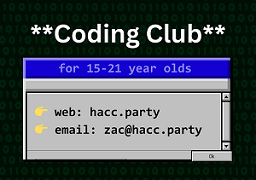
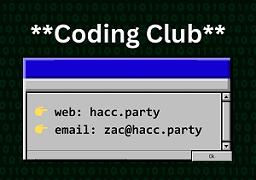
mega style update

Changed region(s): [[0.2188, 0.3333, 0.7812, 0.4167]]

diff --git a/assets/global.css b/assets/global.css
@@ -1,21 +1,57 @@
+:root {
+	color-scheme: dark;
+	--hl: #88f;
+	--fg: #fee;
+	background: #222;
+	color: var(--fg);
+	font-size: 1.1rem;
+
+	display: flex;
+	justify-content: center;
+	min-height: 100vh;
+	font-family: monospace;
+}
 body {
 	max-width: 37rem;
-	font-size: 1rem;
 	margin: auto;
-}
-h1:first-of-type {
-	margin-top: 0;
+	border: 4px solid var(--fg);
 }
 nav {
 	display: flex;
 	gap: 1rem;
-	margin: 0.7rem 0;
-	padding: 0.7rem 0;
-	border: dashed gray;
-	border-width: 1px 0 1px 0;
+	padding: .7rem;
+	border-bottom: 2px solid var(--fg);
+}
+main {
+	padding: 1.2rem;
+}
+main > :first-child {
+	margin-top: 0;
+}
+main > :last-child {
+	margin-bottom: 0;
+}
+footer {
+	padding: .7rem;
+	border-top: 2px solid var(--fg);
+}
+footer * {
+	opacity: .5;
+}
+h1, h2 {
+	border-bottom: 2px solid gray;
+}
+a {
+	color: var(--hl);
+}
+.hl {
+	background: var(--hl);
+	padding: 0.3rem;
+	margin: -0.3rem;
+	color: var(--fg);
 }
 @media (max-width: 38rem) {
 	body {
-		margin: 0 1rem;
+		border: none;
 	}
 }

diff --git a/layouts/_default/baseof.html b/layouts/_default/baseof.html
@@ -15,7 +15,7 @@
 
 	<meta property="og:title" content="{{.Site.Title}}">
 	<meta property="og:description" content="{{.Description}}">
-	<meta property="og:image" content="/banner.png">
+	<meta property="og:image" content="/banner.webp">
 	<meta property="og:type" content="website">
 	<meta property="og:url" content="{{.Permalink}}">
 </head>
@@ -25,8 +25,15 @@
 		<a href="/meets">meets</a>
 		<a href="/hackers">hackers</a>
 		<a href="/merch">merch</a>
-		<a href="https://codeberg.org/hacc">codeberg</a>
+		<a href="https://github.com/haccn">github</a>
 	</nav>
-	{{block "main" .}}{{end}}
+	<main>
+		{{block "main" .}}{{end}}
+	</main>
+	<footer>
+		<span>
+			made with &#129505; by HACCers
+		</span>
+	</footer>
 </body>
 </html>

diff --git a/layouts/shortcodes/meets.html b/layouts/shortcodes/meets.html
@@ -1,7 +1,5 @@
 {{range $i, $e := .Site.Data.meets}}
-<div {{if eq $i 0}}class="next"{{end}}>
-	<h2>{{time.Format "2 Jan 2006" .date}}</h2>
-	<b>Theme:</b> {{markdownify .theme}}<br>
-	{{if .extra}}{{markdownify .extra}}{{end}}
-</div>
+<h2>{{time.Format "2 Jan 2006" .date}}</h2>
+<b>Theme:</b> {{markdownify .theme}}<br>
+{{if .extra}}{{markdownify .extra}}{{end}}
 {{end}}

diff --git a/layouts/shortcodes/next_meet.html b/layouts/shortcodes/next_meet.html
@@ -1,3 +1,3 @@
 {{$meet := index .Site.Data.meets 0}}
-<b>👉 Next meet:</b> {{time.Format "2 Jan 2006" $meet.date}}<br>
+<b>&#128073; Next meet:</b> {{time.Format "2 Jan 2006" $meet.date}}<br>
 <b>Theme:</b> {{$meet.theme}}<br>

diff --git a/content/_index.md b/content/_index.md
@@ -1,14 +1,27 @@
 ---
-description: An epic coding club for 15-21 year olds based in the Noosa area.
+description: An epic coding club for anyone (roughly) over the age of 15 based in the Noosa area.
 ---
 
-# HACC
+# &#10016; HACC
 
 Hello, I'm 18 and I'm starting a community where coders and computery people can help each other, show off, and share cool stuff.
 
-Anyone around the ages of 15-21 with an interest in coding can join.
+Anyone (roughly) over the age of 15 with an interest in coding can join.
 
 Also it's free btw.
+
+## Online chat
+
+Cool people join the chat room.
+
+<a href="https://discord.gg/qQy5drZ2QR" class="hl">&#128073; Join the Discord</a>
+
+<div>
+<a href="mailto:zac@hacc.party"><b>&#128386;</b> email</a>
+<a href="https://instagram.com/hacc_noosa">&#128247; insta</a>
+<a href="https://www.facebook.com/profile.php?id=100012621345414"><b>f</b> facebook</a>
+<a href="https://haccn.itch.io">&#127918; itch.io</a>
+</div>
 
 ## Fortnightly meets
 
@@ -19,16 +32,4 @@ You'll need to bring a computer, a charger, and yourself.
 {{<next_meet>}}
 **Time:** 6-7 pm\
 **Location:** [117 St Andrews Dr, Tewantin QLD 4565](https://maps.app.goo.gl/7exVwv6GUnJnDHYNA)
-
-## Online chat
-
-You should join the club Matrix room.
-
-This is where we all keep in touch between meets.
-
-**👉 Join:** [#haccn:matrix.org](https://matrix.to/#/#haccn:matrix.org)\
-**Email:** [zac@hacc.party](mailto:zac@hacc.party?subject=ello&body=HACC%20looks%20awesome%20and%20I'm%20joining%20cuz%20I'm%20an%20epic%20gamer)\
-**Phone:** see Matrix room description
-
-**Codeberg:** [hacc](https://codeberg.org/hacc)
 

diff --git a/content/merch.md b/content/merch.md
@@ -1,6 +1,10 @@
+---
+description: Epic HACC merch B)
+---
+
 # Merch
 
-Merch compiled from source.
+Merch compiled from source. (i.e. scribbles on a shirt xD)
 
-![merch front](/merch_front.png)
-![merch back](/merch_back.png)
+![merch front](/merch_front.webp)
+![merch back](/merch_back.webp)

diff --git a/content/hackers.md b/content/hackers.md
@@ -1,5 +1,13 @@
+---
+description: A list of HACC members.
+---
+
 # Zac
 
 The big cheese.
 
-<small>\*crickets chirp\*</small>
+# Evan
+
+Puts the boogie in the woogie.
+
+[GitHub](https://github.com/Evandalegend)

diff --git a/content/meets.md b/content/meets.md
@@ -1,5 +1,5 @@
 ---
-description: club meetings
+description: HACC meetings
 ---
 
 {{<meets>}}
